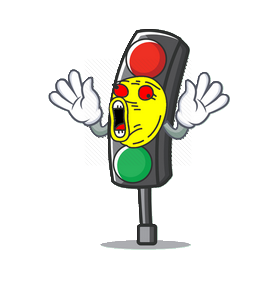
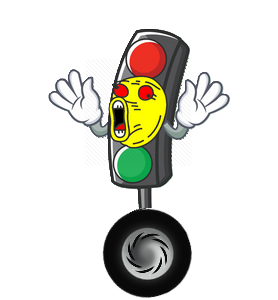
ajouts divers objets animés dans le décor, test OK

Changed region(s): [[0.3453, 0.69, 0.6906, 1.0]]

diff --git a/style.css b/style.css
@@ -94,7 +94,7 @@
 
   top: 245px;
 
-  left: 600px;
+  right: 0px;
 
 }
 
@@ -113,5 +113,43 @@
 
   top: 255px;
 
-  left:600px;
+  right: 0px;
+}
+
+
+/* ///////////////////////////////////////////////////////////////
+//////////// styles du nuage //////////////////////////
+////////////////////////////////////////////////////////////////*/
+
+#cloud{
+  z-index: 15;
+
+  position: absolute;
+
+  width:200px;
+
+  height: auto;
+
+  top: 50px;
+
+  right: 0px;
+}
+
+
+/* ///////////////////////////////////////////////////////////////
+//////////// styles du supporter //////////////////////////
+////////////////////////////////////////////////////////////////*/
+
+#supporter{
+  z-index: 35;
+
+  position: absolute;
+
+  width:110px;
+
+  height: auto;
+
+  top: 362px;
+
+  right: 0px;
 }

diff --git a/index.php b/index.php
@@ -11,31 +11,37 @@
 
 <body>
 
-
+  <!------ emplacement du jeu sur l'éran ------->
   <div id="wtf_jeu">
-    <!------ emplacement du jeu sur l'éran ------->
 
-    <div class="info">SCORE : <span id="score">0</span></div>
     <!----- emplacement des infos du jeu----->
+    <div class="info">SCORE : <span id="score">0</span></div>
 
-    <img id="fond1" class="fond" src="assets/route.png">
     <!----- portion 1 du décor----->
+    <img id="fond1" class="fond" src="assets/route.png">
 
-    <img id="fond2" class="fond" src="assets/route.png">
     <!----- portion 2 du décor, évite d'avoir une zone blanche 
     lors du défilement d'image de droite à gauche ----->
+    <img id="fond2" class="fond" src="assets/route.png">
 
-    <img id="vb" src="assets/vb.png">
     <!----- emplacement de la voiture bleue ------->
+    <img id="vb" src="assets/vb.png">
 
-    <img id="mt" src="assets/mt.png">
     <!----- emplacement de Mad Traffic ------->
+    <img id="mt" src="assets/mt.png">
 
-    <img id="house_1" src="assets/house_1.png">
     <!----- emplacement de la 1ere maison ------->
+    <img id="house_1" src="assets/house_1.png">
 
-    <img id="lights" src="assets/lights.png">
     <!----- emplacement du réverbère ------->
+    <img id="lights" src="assets/lights.png">
+
+    <!----- emplacement du nuage ------->
+    <img id="cloud" src="assets/cloud.png">
+
+    <!----- emplacement du supporter ------->
+    <img id="supporter" src="assets/supporter.gif">
+
 
   </div>
 
@@ -49,49 +55,164 @@
 
       var ok = 1;
 
-      /*function deplace()*/
+      function deplace() {
 
-      {
+        /******************* ANIMATION DU DECOR ***********************/
+        $('.fond').animate({
+
+          /*** le fond se déplace sur une largeur total de 544px vers la gauche
+          en 1600 millisecondes.
+          (deux images sont utilisées pour éviter une zone blanche ***/
+          left: '-=544'
+        }, 1600, 'linear', function () {
+
+          $('.fond').css('left', 0);
+
+          deplace();
+
+        });
+
+        /******************* ANIMATION DE MAD TRAFFIC (le feu tricolore)********************/
         $('#mt').animate({
-          /*********** l'objet se déplace sur une largeur total de 1380px
+
+          /*l'objet se déplace sur une largeur total de 1380px
           (1280px=largeur du fond, right:-100px = emplacement de l'objet)
-          en 4059 millisecondes ****************************************/
+          en 2559 millisecondes ****************************************/
           left: '-=1380'
-        }, 4059, 'linear', function () {
+        }, 2559, 'linear', function () {
 
+          /* l'objet apparaît sur l'ordonnée horizontale pendant 1280px */
           var mtX = 1280;
-          /* l'objet apparaît sur l'ordonnée horizontale de 1280px */
 
+          /* sur l'ordonnée verticale l'objet est placé aléatoirement entre 400px et 160px*/
           var mtY = Math.floor(Math.random() * 160) + 400;
-          /* l'ordonnée verticale est choisie aléatoirement entre 400px et 160px*/
 
+          /* coordonnée Y de Mad traffic */
           $('#mt').css('top', mtY);
-          /* l'ordonnée Y démarre en haut*/
 
+          /* coordonnée X de Mad Traffic */
           $('#mt').css('left', mtX);
-          /* l'ordonnée X démarre à gauche*/
+
 
           ok = 1;
 
-        });
-        $('.fond').animate({
-            left: '-=544'
-            /*** le fond se déplace sur une largeur total de 544px vers la gauche
-            en 1600 millisecondes.
-            (deux images sont utilisées pour éviter une zone blanche ***/
-          }, 1600,
-          'linear',
-          function () {
+          });
 
-            $('.fond').css('left', 0);
 
-            deplace();
+
+
+
+        /*************************** ANIMATION DE LA MAISON ************************/
+        $('#house_1').animate({
+                  
+          /*l'objet se déplace sur une largeur total de 1480px
+          (1280px=largeur du fond + 200px = largeur de l'objet)
+          en 5559 millisecondes ****************************************/
+          left: '-=1480'
+        }, 5559, 'linear', function () {
+
+          /* l'objet apparaît sur l'ordonnée horizontale pendant 1280px */
+          var house_1X = 1280;
+
+          /* l'objet apparaît sur l'ordonnée verticale à un top de 245px */
+          var house_1Y = 245;
+
+          /* coordonnée Y de la maison */
+          $('#house_1').css('top', house_1Y);
+
+          /* coordonnée X de la maison */
+          $('#house_1').css('left', house_1X);
+
+
+          ok = 1;
 
           });
 
+
+
+        /*************************** ANIMATION DU REVERBERE ************************/
+        $('#lights').animate({
+                  
+          /*l'objet se déplace sur une largeur total de 1480px
+          (1280px=largeur du fond + 200px = largeur de l'objet)
+          en 4408 millisecondes ****************************************/
+          left: '-=1480'
+        }, 4408, 'linear', function () {
+        
+          /* l'objet apparaît sur l'ordonnée horizontale pendant 1280px */
+          var lightsX = 1280;
+        
+          /* l'objet apparaît sur l'ordonnée verticale à un top de 255px */
+          var lightsY = 255;
+        
+          /* coordonnée Y du réverbère */
+          $('#lights').css('top', lightsY);
+        
+          /* coordonnée X du réverbère */
+          $('#lights').css('left', lightsX);
+        
+        
+          ok = 1;
+        
+          });
+
+
+        /*************************** ANIMATION DU NUAGE ************************/
+        $('#cloud').animate({
+                  
+          /*l'objet se déplace sur une largeur total de 1480px
+          (1280px=largeur du fond + 200px = largeur de l'objet)
+          en 30000 millisecondes ****************************************/
+          left: '-=1480'
+        }, 30000, 'linear', function () {
+                
+          /* l'objet apparaît sur l'ordonnée horizontale pendant 1280px */
+          var cloudX = 1280;
+                
+          /* l'objet apparaît sur l'ordonnée verticale à un top de 255px */
+          var cloudY = 50;
+                
+          /* coordonnée Y du réverbère */
+          $('#cloud').css('top', cloudY);
+                
+          /* coordonnée X du réverbère */
+          $('#cloud').css('left', cloudX);
+                
+                
+          ok = 1;
+                
+          });
+
+
+        /*************************** ANIMATION DU SUPPORTER ************************/
+        $('#supporter').animate({
+                  
+          /*l'objet se déplace sur une largeur total de 1480px
+          (1280px=largeur du fond + 200px = largeur de l'objet)
+          en 4408 millisecondes ****************************************/
+          left: '-=1480'
+        }, 4108, 'linear', function () {
+                
+          /* l'objet apparaît sur l'ordonnée horizontale pendant 1280px */
+          var supporterX = 1280;
+                
+          /* l'objet apparaît sur l'ordonnée verticale à un top de 255px */
+          var supporterY = 362;
+                
+          /* coordonnée Y du réverbère */
+          $('#supporter').css('top', supporterY);
+                
+          /* coordonnée X du réverbère */
+          $('#supporter').css('left', supporterX);
+                
+                
+          ok = 1;
+                
+          });     
+
       };
 
-      /*************** déplacement de la voiture *******************/
+      /*************************** ANIMATION DE LA VOITURE ************************/
       $(document).keydown(function (e) {
 
         if (e.which == 40)
@@ -120,7 +241,7 @@
 
       });
 
-      /*********** gestion des collisions**************/
+      /******************************* GESTION DES COLLISIONS *****************************/
       function collision()
 
       {
